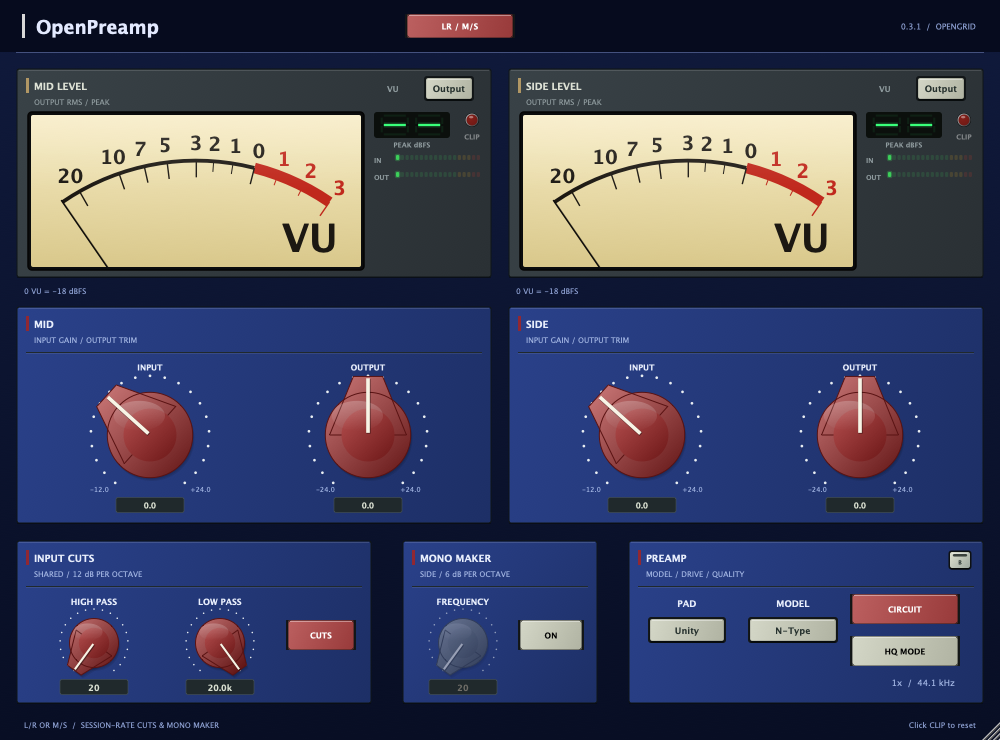
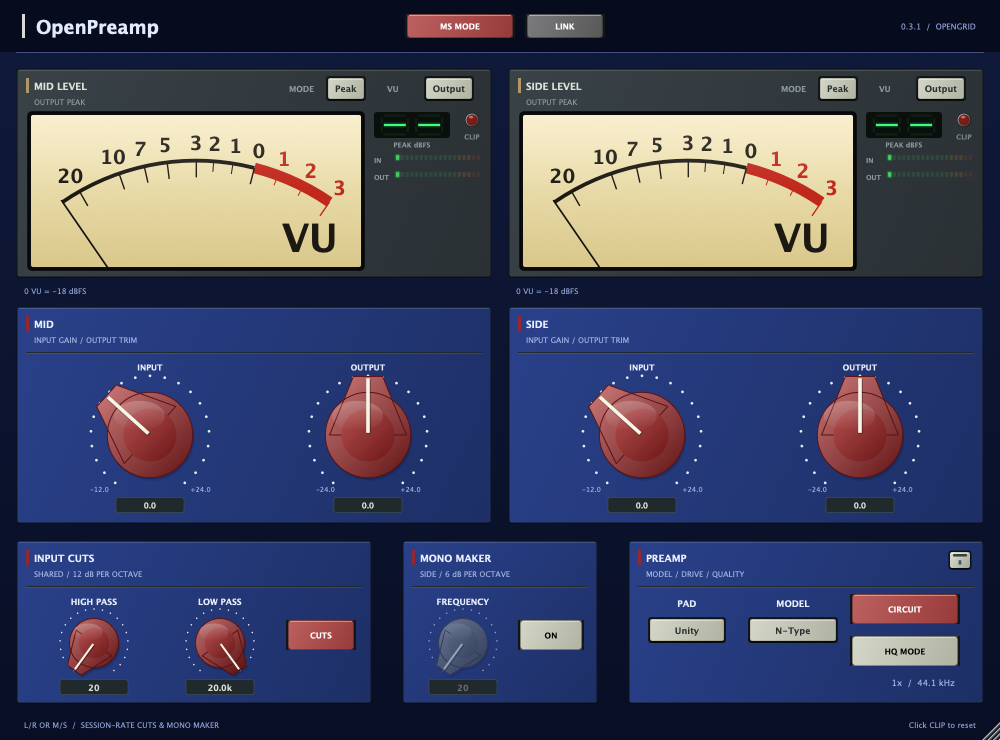
Add Peak/RMS meter mode and disable Link in MS mode

diff --git a/Source/OpenPreampPlugin/PluginEditor.cpp b/Source/OpenPreampPlugin/PluginEditor.cpp
@@ -5,7 +5,8 @@
 OpenPreampEditor::OpenPreampEditor(OpenPreampProcessor& p)
     : AudioProcessorEditor(&p), proc(p),
       rightMeter(p), rightMeterSourceBtn(p.apvts, "meterSource", "VU", true),
-      midSideToggle(p.apvts, "midSide", "LR / M/S", Theme::preampCol),
+      meterModeBtn(p.apvts, "meterMode", "MODE", true), rightMeterModeBtn(p.apvts, "meterMode", "MODE", true),
+      midSideToggle(p.apvts, "midSide", "MS MODE", Theme::preampCol),
       cutsToggle(p.apvts, "cutsEnabled", "CUTS", Theme::preampCol),
       linkToggle(p.apvts, "channelLink", "LINK", Theme::preampCol),
       monoMakerToggle(p.apvts, "monoMakerEnabled", "ON", Theme::preampCol),
@@ -31,7 +32,7 @@ OpenPreampEditor::OpenPreampEditor(OpenPreampProcessor& p)
     rightPreampPanel.addAndMakeVisible(rightOutputDial);
     for (auto* c : std::initializer_list<juce::Component*>{&highPassDial,&lowPassDial,&cutsToggle}) cutsPanel.addAndMakeVisible(c);
     for (auto* c : std::initializer_list<juce::Component*>{&preampPadBtn,&preampTypeBtn,&preampCircuitToggle,&hqToggle,&rateLabel}) controlsPanel.addAndMakeVisible(c);
-    for (auto* c : std::initializer_list<juce::Component*>{&preampPanel,&rightPreampPanel,&cutsPanel,&controlsPanel,&monoMakerPanel,&midSideToggle,&linkToggle,&meterPanel,&rightMeter,&meterSourceBtn,&rightMeterSourceBtn}) canvas.addAndMakeVisible(c);
+    for (auto* c : std::initializer_list<juce::Component*>{&preampPanel,&rightPreampPanel,&cutsPanel,&controlsPanel,&monoMakerPanel,&midSideToggle,&linkToggle,&meterPanel,&rightMeter,&meterSourceBtn,&rightMeterSourceBtn,&meterModeBtn,&rightMeterModeBtn}) canvas.addAndMakeVisible(c);
     monoMakerPanel.addAndMakeVisible(monoMakerDial); monoMakerPanel.addAndMakeVisible(monoMakerToggle);
     meterPanel.setChannel(0); rightMeter.setChannel(1);
     meterPanel.setExternallyDriven(); rightMeter.setExternallyDriven();
@@ -52,12 +53,13 @@ OpenPreampEditor::OpenPreampEditor(OpenPreampProcessor& p)
     preampTypeBtn.setButtonTooltip("Shared preamp model for both channels.");
     preampCircuitToggle.setTooltip("Circuit at 2x, or lighter native-rate preamp with ADAA when off.");
     hqToggle.setTooltip("Use 4x oversampling when CIRCUIT is on.");
-    midSideToggle.setTooltip("Encode Mid/Side before the preamps; decode to stereo after downsampling and output trims.");
+    midSideToggle.setTooltip("Off: normal L/R. On: encode Mid/Side before the preamps and decode after downsampling and output trims. Link is disabled in M/S.");
     linkToggle.setTooltip("Link both input and output gains to the left controls. Right settings return when unlinked. Unavailable in M/S.");
     monoMakerToggle.setTooltip("Reduce bass width with a session-rate 6 dB/octave high-pass on Side only, before the preamp.");
     monoMakerDial.setTooltip("Side high-pass cutoff: 20–500 Hz. Mid is unchanged. Double-click for 20 Hz.");
     cutsToggle.setTooltip("Shared session-rate 12 dB/octave high-pass and low-pass.");
     for (auto* button : {&meterSourceBtn,&rightMeterSourceBtn}) button->setButtonTooltip("Select input or output for both independent meters.");
+    for (auto* button : {&meterModeBtn,&rightMeterModeBtn}) button->setButtonTooltip("Switch both meter needles and numeric readouts between Peak and RMS. Clip lamps always detect peaks.");
     rateLabel.setFont(juce::FontOptions(10.0f));
     rateLabel.setJustificationType(juce::Justification::centredRight);
     rateLabel.setInterceptsMouseClicks(false,false);
@@ -135,6 +137,7 @@ void OpenPreampEditor::resized()
     canvas.setTransform(juce::AffineTransform::scale(float(getHeight())/740.0f));
     meterPanel.setBounds(16,68,476,210);rightMeter.setBounds(508,68,476,210);
     meterSourceBtn.setBounds(382,75,92,27);rightMeterSourceBtn.setBounds(874,75,92,27);
+    meterModeBtn.setBounds(284,75,82,27);rightMeterModeBtn.setBounds(776,75,82,27);
     preampPanel.setBounds(16,306,476,218);rightPreampPanel.setBounds(508,306,476,218);
     if(!layoutReady) {
         preampGainDial.setBounds(60,54,148,154);outputGainDial.setBounds(286,54,132,154);
@@ -156,6 +159,8 @@ void OpenPreampEditor::resized()
 void OpenPreampEditor::timerCallback()
 {
     applyModelLook();
+    const bool peak = proc.apvts.getRawParameterValue("meterMode")->load() < 0.5f;
+    meterPanel.setPeakMode(peak); rightMeter.setPeakMode(peak);
     rightMeter.setInputSource(proc.apvts.getRawParameterValue("meterSource")->load() < 0.5f);
     meterPanel.setInputSource(proc.apvts.getRawParameterValue("meterSource")->load() < 0.5f);
     const bool active = proc.apvts.getRawParameterValue("preampBypass")->load() < 0.5f
@@ -172,7 +177,7 @@ void OpenPreampEditor::timerCallback()
     rightPreampPanel.setTitle(ms ? "SIDE" : "RIGHT");
     const bool stereo = proc.getTotalNumInputChannels() == 2;
     const bool linked = !ms && proc.apvts.getRawParameterValue("channelLink")->load() > 0.5f;
-    linkToggle.setVisible(!ms); linkToggle.setEnabled(stereo); linkToggle.setActive(stereo);
+    linkToggle.setVisible(true); linkToggle.setEnabled(stereo && !ms); linkToggle.setActive(stereo && !ms);
     rightGainDial.setEnabled(stereo && !linked); rightOutputDial.setEnabled(stereo && !linked);
     rightGainDial.setActive(stereo && !linked && !proc.apvts.getRawParameterValue("preampBypass")->load());
     rightOutputDial.setActive(stereo && !linked);

diff --git a/tests/openpreamp_stereo_tools.h b/tests/openpreamp_stereo_tools.h
@@ -24,19 +24,37 @@ static void runStereoToolsChecks() {
     for(bool ms : {false,true}) {
         OpenPreampProcessor p;set(p,"channelLink",1);set(p,"midSide",ms ? 1 : 0);
         std::unique_ptr<juce::AudioProcessorEditor> editor(p.createEditor());
-        bool linkVisible=false,rightEnabled=true,rightDimmed=false;int gainControls=0;
+        bool linkVisible=false,linkEnabled=false,linkActive=false,rightEnabled=true,rightDimmed=false;int gainControls=0;
         for(auto* surface : editor->getChildren())for(auto* child : surface->getChildren()) {
-            if(auto* button=dynamic_cast<SmallToggle*>(child);button && button->getButtonText()=="LINK")linkVisible=button->isVisible();
+            if(auto* button=dynamic_cast<SmallToggle*>(child);button && button->getButtonText()=="LINK"){linkVisible=button->isVisible();linkEnabled=button->isEnabled();linkActive=button->getActive();}
             if(auto* panel=dynamic_cast<SectionPanel*>(child);panel && panel->getX()==508)
                 for(auto* control : panel->getChildren())if(auto* knob=dynamic_cast<RotaryKnob*>(control)) {
                     ++gainControls;rightEnabled &= knob->isEnabled();rightDimmed |= !knob->getActive();
                 }
         }
-        check(gainControls==2 && linkVisible==!ms && rightEnabled==ms && rightDimmed==!ms,
-            ms ? "M/S hides Link and enables both Side controls" : "Link greys and disables both right controls in L/R");
+        check(gainControls==2 && linkVisible && linkEnabled==!ms && linkActive==!ms && rightEnabled==ms && rightDimmed==!ms,
+            ms ? "M/S keeps Link visible but disabled and dimmed, with both Side controls enabled" : "Link greys and disables both right controls in L/R");
         const auto image=editor->createComponentSnapshot(editor->getLocalBounds());
         juce::FileOutputStream file(juce::File(ms ? "/private/tmp/openpreamp-031-ms.png" : "/private/tmp/openpreamp-031-linked.png"));
         file.setPosition(0);file.truncate();juce::PNGImageFormat png;png.writeImageToStream(image,file);
+    }
+    {
+        LevelTracker input,output;MeterPanel meter(input,output);meter.setExternallyDriven();meter.setChannel(0);
+        LevelTracker::Reading in,out;out.peak[0]=.5f;out.meanSquare[0]=.01f;
+        meter.setPeakMode(false);for(int n=0;n<60;++n)meter.step(in,out,1.0f/30);
+        const float rmsNeedle=meter.needle(),rmsDb=meter.displayedDb();
+        meter.setPeakMode(true);for(int n=0;n<60;++n)meter.step(in,out,1.0f/30);
+        check(meter.needle()>rmsNeedle && std::abs(rmsDb+20)<1e-4f && std::abs(meter.displayedDb()+6.0206f)<1e-4f,
+            "Peak/RMS switches both needle measurement and numeric dBFS readout");
+        meter.setPeakMode(false);out.peak[0]=1.1f;meter.step(in,out,1.0f/30);
+        check(meter.clipped(),"RMS mode retains peak-based clip indication");
+        OpenPreampProcessor p;
+        for(int mode : {0,1}) {
+            set(p,"meterMode",float(mode));std::unique_ptr<juce::AudioProcessorEditor> editor(p.createEditor());int matching=0;
+            for(auto* surface : editor->getChildren())for(auto* child : surface->getChildren())
+                if(auto* vu=dynamic_cast<MeterPanel*>(child);vu && vu->isPeakMode()==(mode==0))++matching;
+            check(matching==2,"Both independent VUs restore the shared Peak/RMS choice");
+        }
     }
     for(double rate : {44100.0,48000.0,96000.0})for(bool ms : {false,true}) {
         auto amplitude = [&](double frequency,bool side,bool enabled) {

diff --git a/Source/UI/MeterPanel.h b/Source/UI/MeterPanel.h
@@ -42,6 +42,12 @@ public:
         repaint();
     }
     bool isInputSource() const { return inputSource; }
+    void setPeakMode(bool peak) {
+        if (selectableMode && peakMode == peak) return;
+        selectableMode = true; peakMode = peak; vu.position = 0.0; vu.velocity = 0.0; repaint();
+    }
+    bool isPeakMode() const { return peakMode; }
+    float displayedDb() const { return selectableMode && !peakMode ? rmsDb : hold; }
     void setFace(Face f) { face = f; repaint(); }
     Face getFace() const { return face; }
     static const char* faceCode(Face f) { for (auto& i : faces) if (i.face == f) return i.code; return "cream"; }
@@ -80,7 +86,7 @@ public:
         else if ((holdTimer -= dt) <= 0.0f) hold = std::max(-99.0f, hold - 12.0f * dt);
         const float power = 0.5f * (selected.meanSquare[0] + selected.meanSquare[1]);
         const float amp = std::sqrt(std::max(power, 0.0f));
-        vuTarget = goodlookinui::juce_adapter::meters::vuPosition(amp / refAmp);
+        vuTarget = goodlookinui::juce_adapter::meters::vuPosition((peakMode ? std::max(selected.peak[0],selected.peak[1]) : amp) / refAmp);
         vu.step(vuTarget, double(dt), 14.0);
         peakNow = -99.0f;
         clock += dt;
@@ -100,7 +106,7 @@ public:
         g.setColour(Theme::textDark); g.setFont(juce::FontOptions(11.5f, juce::Font::bold));
         g.drawText(caption, 18, 8, 100, 20, juce::Justification::centredLeft);
         g.setColour(Theme::textMid); g.setFont(juce::FontOptions(9.0f));
-        g.drawText(inputSource ? "INPUT RMS / PEAK" : "OUTPUT RMS / PEAK", 18, 27, 140, 14, juce::Justification::centredLeft);
+        g.drawText(juce::String(inputSource ? "INPUT " : "OUTPUT ") + (selectableMode ? (peakMode ? "PEAK" : "RMS") : "RMS / PEAK"), 18, 27, 140, 14, juce::Justification::centredLeft);
 
         const auto main = mainRect();
         const float w = float(getWidth());
@@ -137,11 +143,12 @@ public:
             meters::drawLedLadder(g, {bx, 104.0f + float(ch) * 6.5f, bw, 5.0f}, true, ladder[1][ch], hold, 18);
         }
 
-        // peak readout and clip lamp
-        juce::String text = hold <= -90.0f ? juce::String("--") : juce::String(hold, 1);
+        // Selected measurement readout; clip detection remains sample-peak based.
+        const float reading = displayedDb();
+        juce::String text = reading <= -90.0f ? juce::String("--") : juce::String(reading, 1);
         meters::drawSevenSegment(g, {rx, 44.0f, rw - 30.0f, 26.0f}, text, Colour(0xff39ff7a));
         g.setColour(Theme::textMid); g.setFont(juce::FontOptions(8.0f, juce::Font::bold));
-        g.drawText("PEAK dBFS", int(rx), 71, int(rw - 30.0f), 11, juce::Justification::centred);
+        g.drawText(selectableMode && !peakMode ? "RMS dBFS" : "PEAK dBFS", int(rx), 71, int(rw - 30.0f), 11, juce::Justification::centred);
         meters::drawLamp(g, clipLamp(), 5.5f, Colour(0xffff3b30), clip);
         g.drawText("CLIP", int(w) - 38, 63, 36, 11, juce::Justification::centred);
     }
@@ -154,7 +161,7 @@ private:
     LevelTracker& inputLevel;
     LevelTracker& outputLevel;
     Face face = Face::VuCream;
-    bool inputSource = false;
+    bool inputSource = false, peakMode = false, selectableMode = false;
     int channelIndex = -1;
     juce::String caption{"LEVEL"};
     goodlookinui::Motion vu;

diff --git a/Source/OpenPreampPlugin/PluginProcessor.cpp b/Source/OpenPreampPlugin/PluginProcessor.cpp
@@ -59,6 +59,8 @@ juce::AudioProcessorValueTreeState::ParameterLayout OpenPreampProcessor::createP
     monoRange.setSkewForCentre(100.0f);
     params.push_back(std::make_unique<juce::AudioParameterFloat>(
         juce::ParameterID{"monoMakerFrequency", 1}, "Mono Maker Frequency", monoRange, 20.0f));
+    params.push_back(std::make_unique<juce::AudioParameterChoice>(
+        juce::ParameterID{"meterMode", 1}, "Meter Mode", juce::StringArray{"Peak", "RMS"}, 0));
     return {params.begin(), params.end()};
 }
 
@@ -233,7 +235,7 @@ void OpenPreampProcessor::setStateInformation(const void* data, int sizeInBytes)
         if (!state.getChildWithProperty("id","cutsEnabled").isValid()) {
             juce::ValueTree cut("PARAM"); cut.setProperty("id","cutsEnabled",nullptr); cut.setProperty("value",0.0f,nullptr); state.appendChild(cut,nullptr);
         }
-        for (const auto id : {"channelLink", "monoMakerEnabled", "monoMakerFrequency"})
+        for (const auto id : {"channelLink", "monoMakerEnabled", "monoMakerFrequency", "meterMode"})
             if (!state.getChildWithProperty("id",id).isValid()) {
                 juce::ValueTree param("PARAM"); param.setProperty("id",id,nullptr);
                 param.setProperty("value", juce::String(id) == "monoMakerFrequency" ? 20.0f : 0.0f,nullptr);

diff --git a/tests/openpreamp_smoke.cpp b/tests/openpreamp_smoke.cpp
@@ -28,7 +28,7 @@ int main() {
     juce::MidiBuffer midi;
     juce::AudioBuffer<float> audio(2, 128);
     check(p.apvts.getParameter("oversampleMode") == nullptr, "oversampling parameter removed");
-    check(p.getParameters().size() == 17, "preamp-only parameter set; no EQ or harmonics controls");
+    check(p.getParameters().size() == 18, "preamp-only parameter set; no EQ or harmonics controls");
     set(p, "preampCircuit", 0);
     p.setPlayConfigDetails(2, 2, 48000, 128);
     p.prepareToPlay(48000, 128);

diff --git a/Source/OpenPreampPlugin/PluginEditor.h b/Source/OpenPreampPlugin/PluginEditor.h
@@ -46,6 +46,7 @@ private:
     RotaryKnob lowPassDial{"LOW PASS", KnobValueType::Frequency, Theme::preampCol};
     MeterPanel rightMeter;
     CycleButton rightMeterSourceBtn;
+    CycleButton meterModeBtn, rightMeterModeBtn;
     SmallToggle midSideToggle, cutsToggle, linkToggle, monoMakerToggle;
     RotaryKnob monoMakerDial{"FREQUENCY", KnobValueType::Frequency, Theme::preampCol};
     std::unique_ptr<SliderAttachment> monoMakerAtt;

diff --git a/OPENPREAMP_HANDOFF.md b/OPENPREAMP_HANDOFF.md
@@ -8,9 +8,9 @@ VUMT also provides an Amount control; OpenPreamp implements the specifically
 requested Side high-pass rather than adding an unrequested width amount.
 
 New parameters: channelLink (off), monoMakerEnabled (off), monoMakerFrequency
-(20 Hz, range 20–500 Hz). Existing parameter IDs are retained. Linked L/R input
+(20 Hz, range 20–500 Hz), meterMode (Peak initially, RMS alternative). Existing parameter IDs are retained. Linked L/R input
 and output gains both use the left values without overwriting the stored right
-values. Both right knobs are disabled and dimmed. M/S hides Link and ignores
+values. Both right knobs are disabled and dimmed. MS MODE greys out and disables Link and ignores
 its gain routing even if its stored parameter remains on. Mono hosts disable
 stereo-only controls. Old sessions restore new features off at 20 Hz.
 
@@ -21,16 +21,23 @@ the already encoded Side. All operations and 10 ms cutoff smoothing run at
 session rate, before the preamp upsampling. Preamp bypass skips it; model Off
 still permits filtering. Input meters remain before this filter.
 
-The header holds LR / M/S and Link; the bottom row holds cuts, mono maker,
+Peak/RMS buttons beside each meter source selector share meterMode. Both
+needles and numeric readouts switch together; RMS uses mean-square amplitude,
+Peak uses block sample peaks and the peak-hold readout. Clip lamps and LED
+ladders remain peak-based. Meter choice persists in host state and does not
+alter audio. Legacy HybridEQ meters retain their original display behavior.
+
+The header holds MS MODE (off = normal L/R) and Link; the bottom row holds cuts, mono maker,
 and preamp settings. Input Cuts and Preamp both measure 356 × 164; Preamp
 was narrowed to match Input Cuts, with the mono maker centered between them. Saved colours, gain-knob geometry and resize limits are
 retained. Release VST3 built with developer mode OFF and passed strict signature
-verification. All 215 smoke/routing checks passed: linked gains, restoration
-on unlink, Link hidden in M/S, disabled right controls, Side-only 6 dB/octave
+verification. All 219 smoke/routing checks passed: linked gains, restoration
+on unlink, Link visible but disabled and dimmed in M/S, disabled right controls, Side-only 6 dB/octave
 response and Mid preservation at 44.1/48/96 kHz, every model against manually
-encoded/Side-filtered audio at native/2x/4x, state migration, and GUI layout.
+encoded/Side-filtered audio at native/2x/4x, state migration, Peak/RMS needle and numeric behavior, peak clips in RMS,
+shared meter-mode restore, and GUI layout.
 The test VST3 replaces the prior 0.3.1 layout build; the 0.2.0 comparison remains
-untouched. The prior build is backed up in build/OpenPreamp-0.3.1-layout-test-backup.vst3. Remove test installs only
+untouched. The prior equal-width build is backed up in build/OpenPreamp-0.3.1-equal-panels-test-backup.vst3. Remove test installs only
 when the owner explicitly says testing is finished.
 
 ## Earlier 0.3.1 layout handoff

diff --git a/README.md b/README.md
@@ -9,16 +9,18 @@ without an EQ, spectrum display or separate harmonics engine.
   first-order antiderivative antialiasing (ADAA). HQ does not change this path.
 - **Off / bypass:** no circuit oversampling. Output trim and meters remain active.
 - **1000 × 740 resizable editor:** independent channel VUs with input/output selection,
-  peak ladders, peak hold and resettable clip lamps. Model changes
+  click **Peak / RMS** to switch the needles and numeric readouts together
+  (Peak initially). Peak ladders, peak hold and clip lamps keep detecting peaks
+  in either mode. Model changes
   load OpenPreamp's saved plate, knob style and color mappings.
 - **Both channels always visible:** paired input/output controls below the dual
   meters, with shared input cuts and preamp controls in the bottom row.
   Independent input and output trims process Left/Right. **LINK** makes both
   right gains follow the left controls and greys out the right knobs. Unlinking
   restores the saved independent right settings. Link starts off.
-- **LR / M/S:** encodes before cuts and preamps; decodes after downsampling and
-  channel output trims. The strips and VUs become Mid/Side. Link disappears
-  and its gain linking is ignored while M/S is on. Mono ignores M/S.
+- **MS MODE:** encodes before cuts and preamps; decodes after downsampling and
+  channel output trims. The strips and VUs become Mid/Side. Normal L/R is the default with MS MODE off. Link stays
+  visible but greyed out and disabled while M/S is on; gain linking is ignored. Mono ignores M/S.
 - **HIGH PASS / LOW PASS:** shared 12 dB/octave Butterworth cuts, initially
   20 Hz / 20 kHz. CUTS toggles both. Their independent channel state, input/output
   trims, PAD and M/S matrix run at the session rate outside oversampling.

diff --git a/CIRCUIT_EXPLAINED.md b/CIRCUIT_EXPLAINED.md
@@ -54,7 +54,7 @@ controls Side in M/S mode. Mono hosts keep the left stream and ignore M/S.
 
 LINK applies the left input and output gain settings to both L/R streams. The
 stored right gain parameters remain unchanged and return when unlinked. M/S
-hides Link and ignores it, preserving independent Mid and Side gains.
+greys out and disables Link and ignores its gain routing, preserving independent Mid and Side gains.
 
 The mono maker temporarily encodes M/S in L/R mode, high-passes Side, then
 decodes back to L/R before the cuts and gain trims. In M/S mode it filters the
@@ -68,7 +68,11 @@ Each preamp owns its own solver and ADAA history. Circuit on selects 2x;
 HQ selects 4x. Existing oversampling filters and fixed reported latency are
 retained. Filters and gain trims are outside this multirate path.
 
-The two VUs independently measure input/output RMS, peak hold and clip.
+The two VUs independently measure input/output. The shared Peak / RMS choice
+switches their needles and numeric dBFS readouts: sample peaks with peak hold,
+or root-mean-square amplitude. Both modes retain the needle ballistics and
+-18 dBFS reference; clip lamps and small LED ladders always detect peaks.
+Peak is the initial selection. This mode affects metering only.
 In L/R mode they show Left and Right; in M/S mode they show Mid and Side.
 Input taps are after encoding and before mono maker/cuts/drive. Output taps are after
 channel output trims and before decoding. They read audio without changing it.
